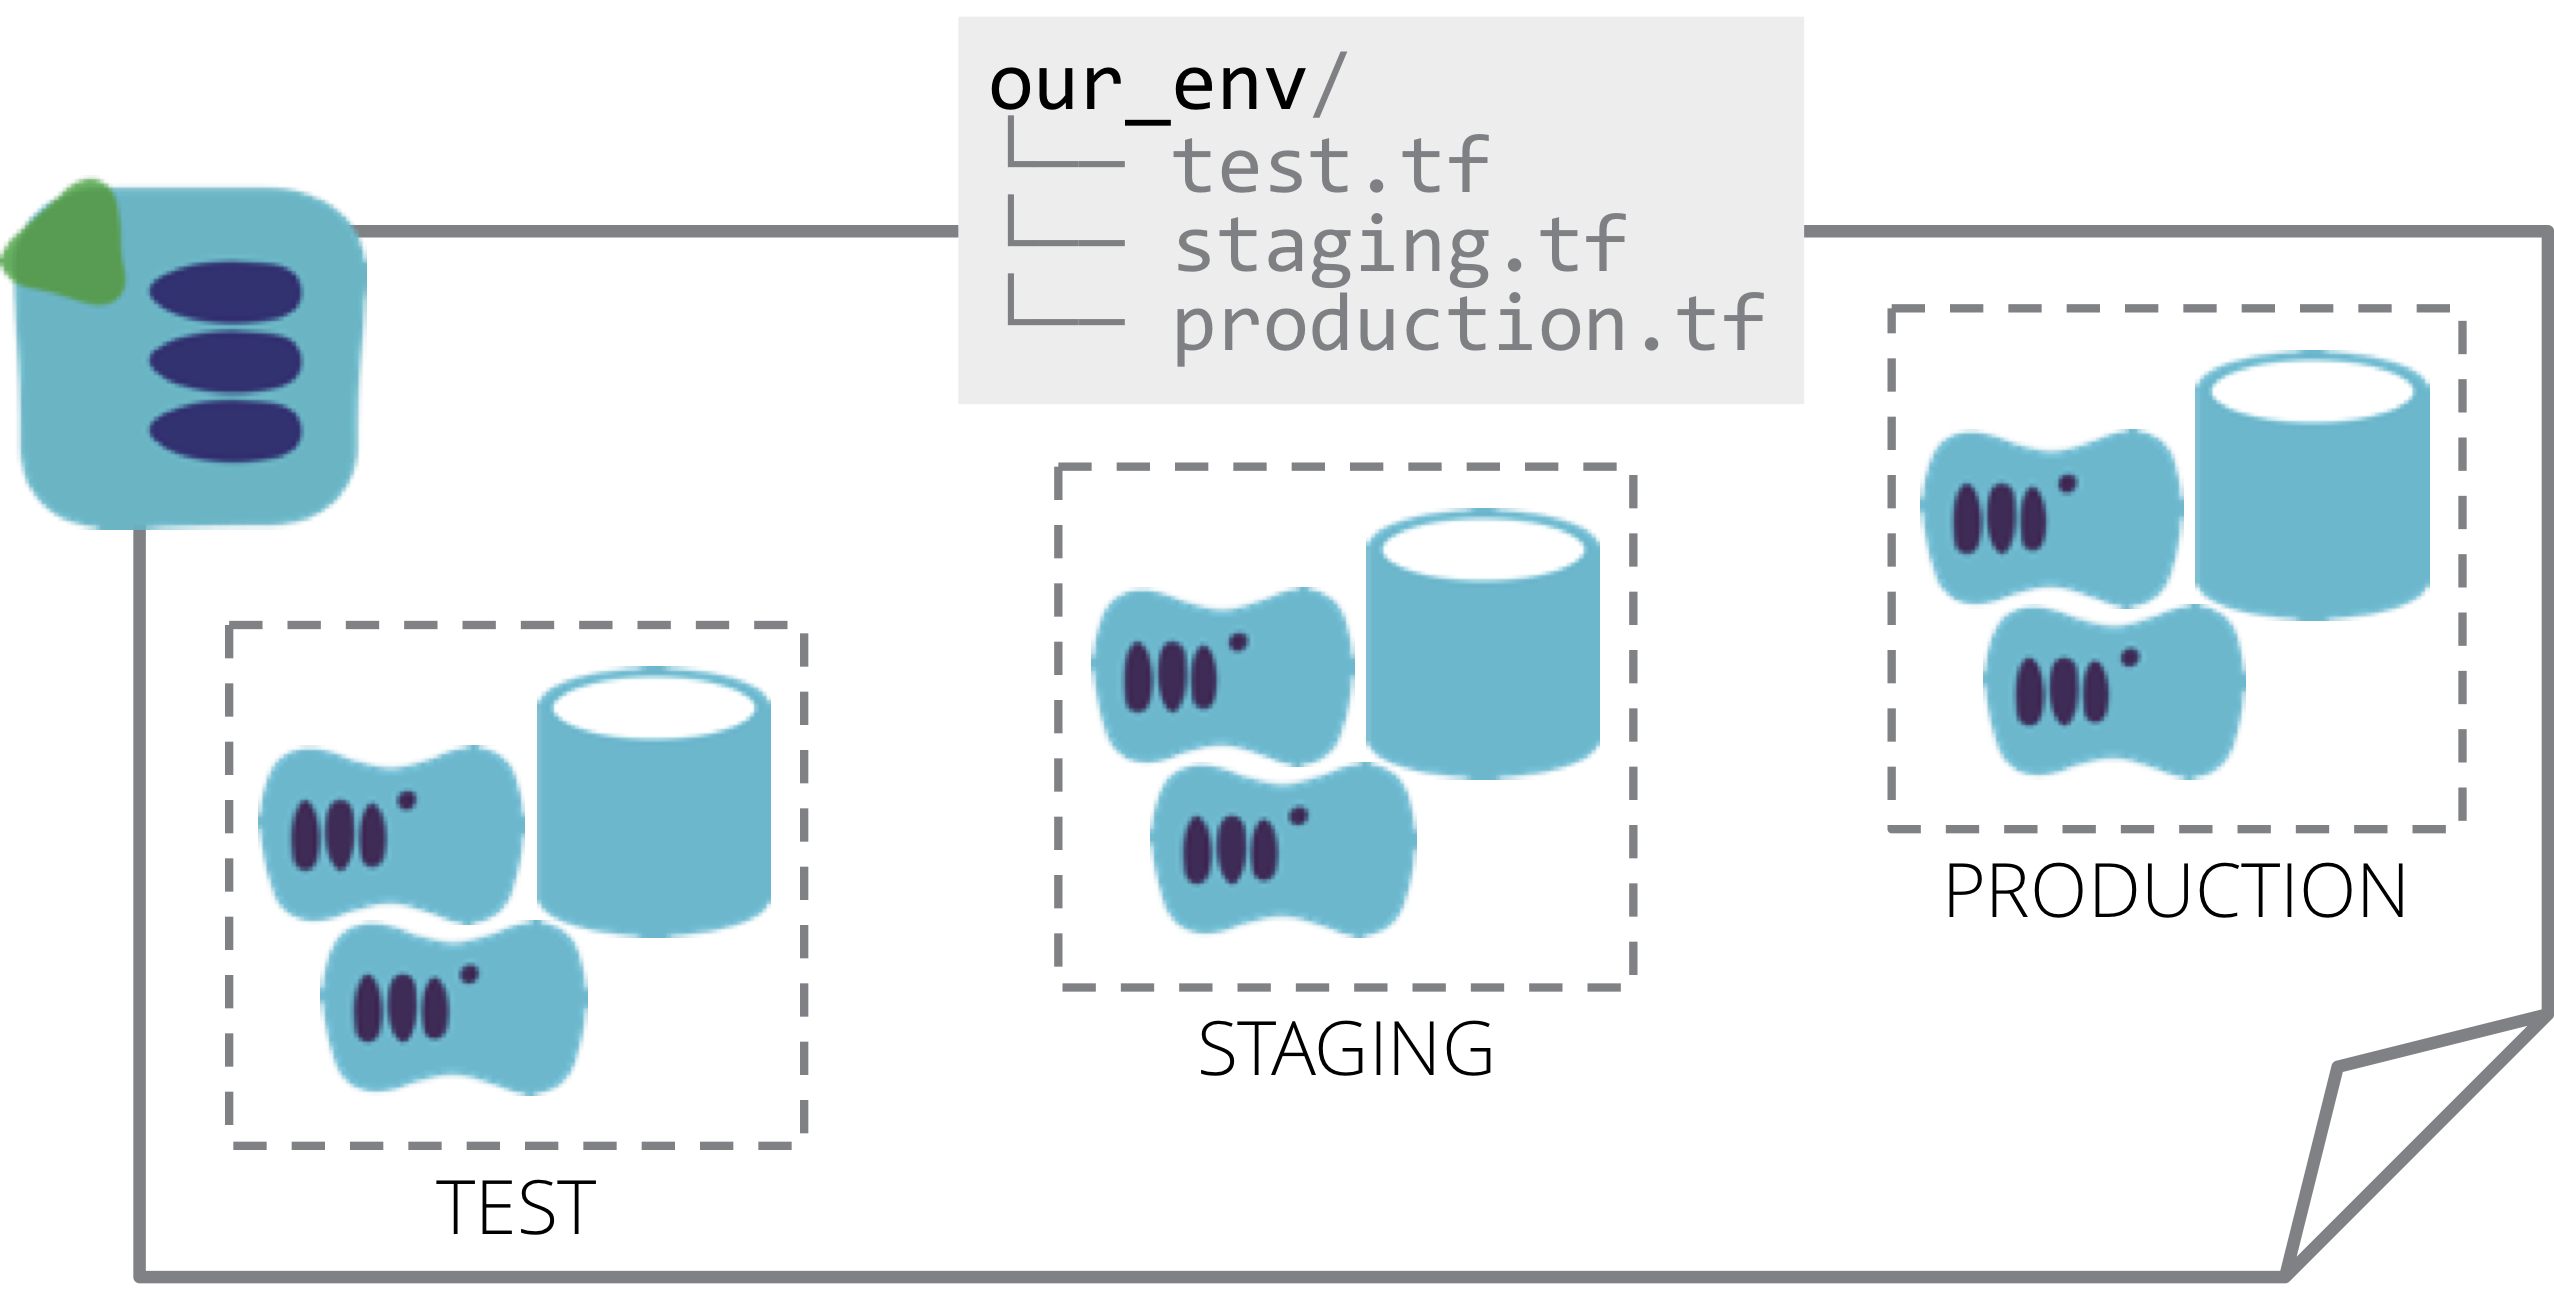
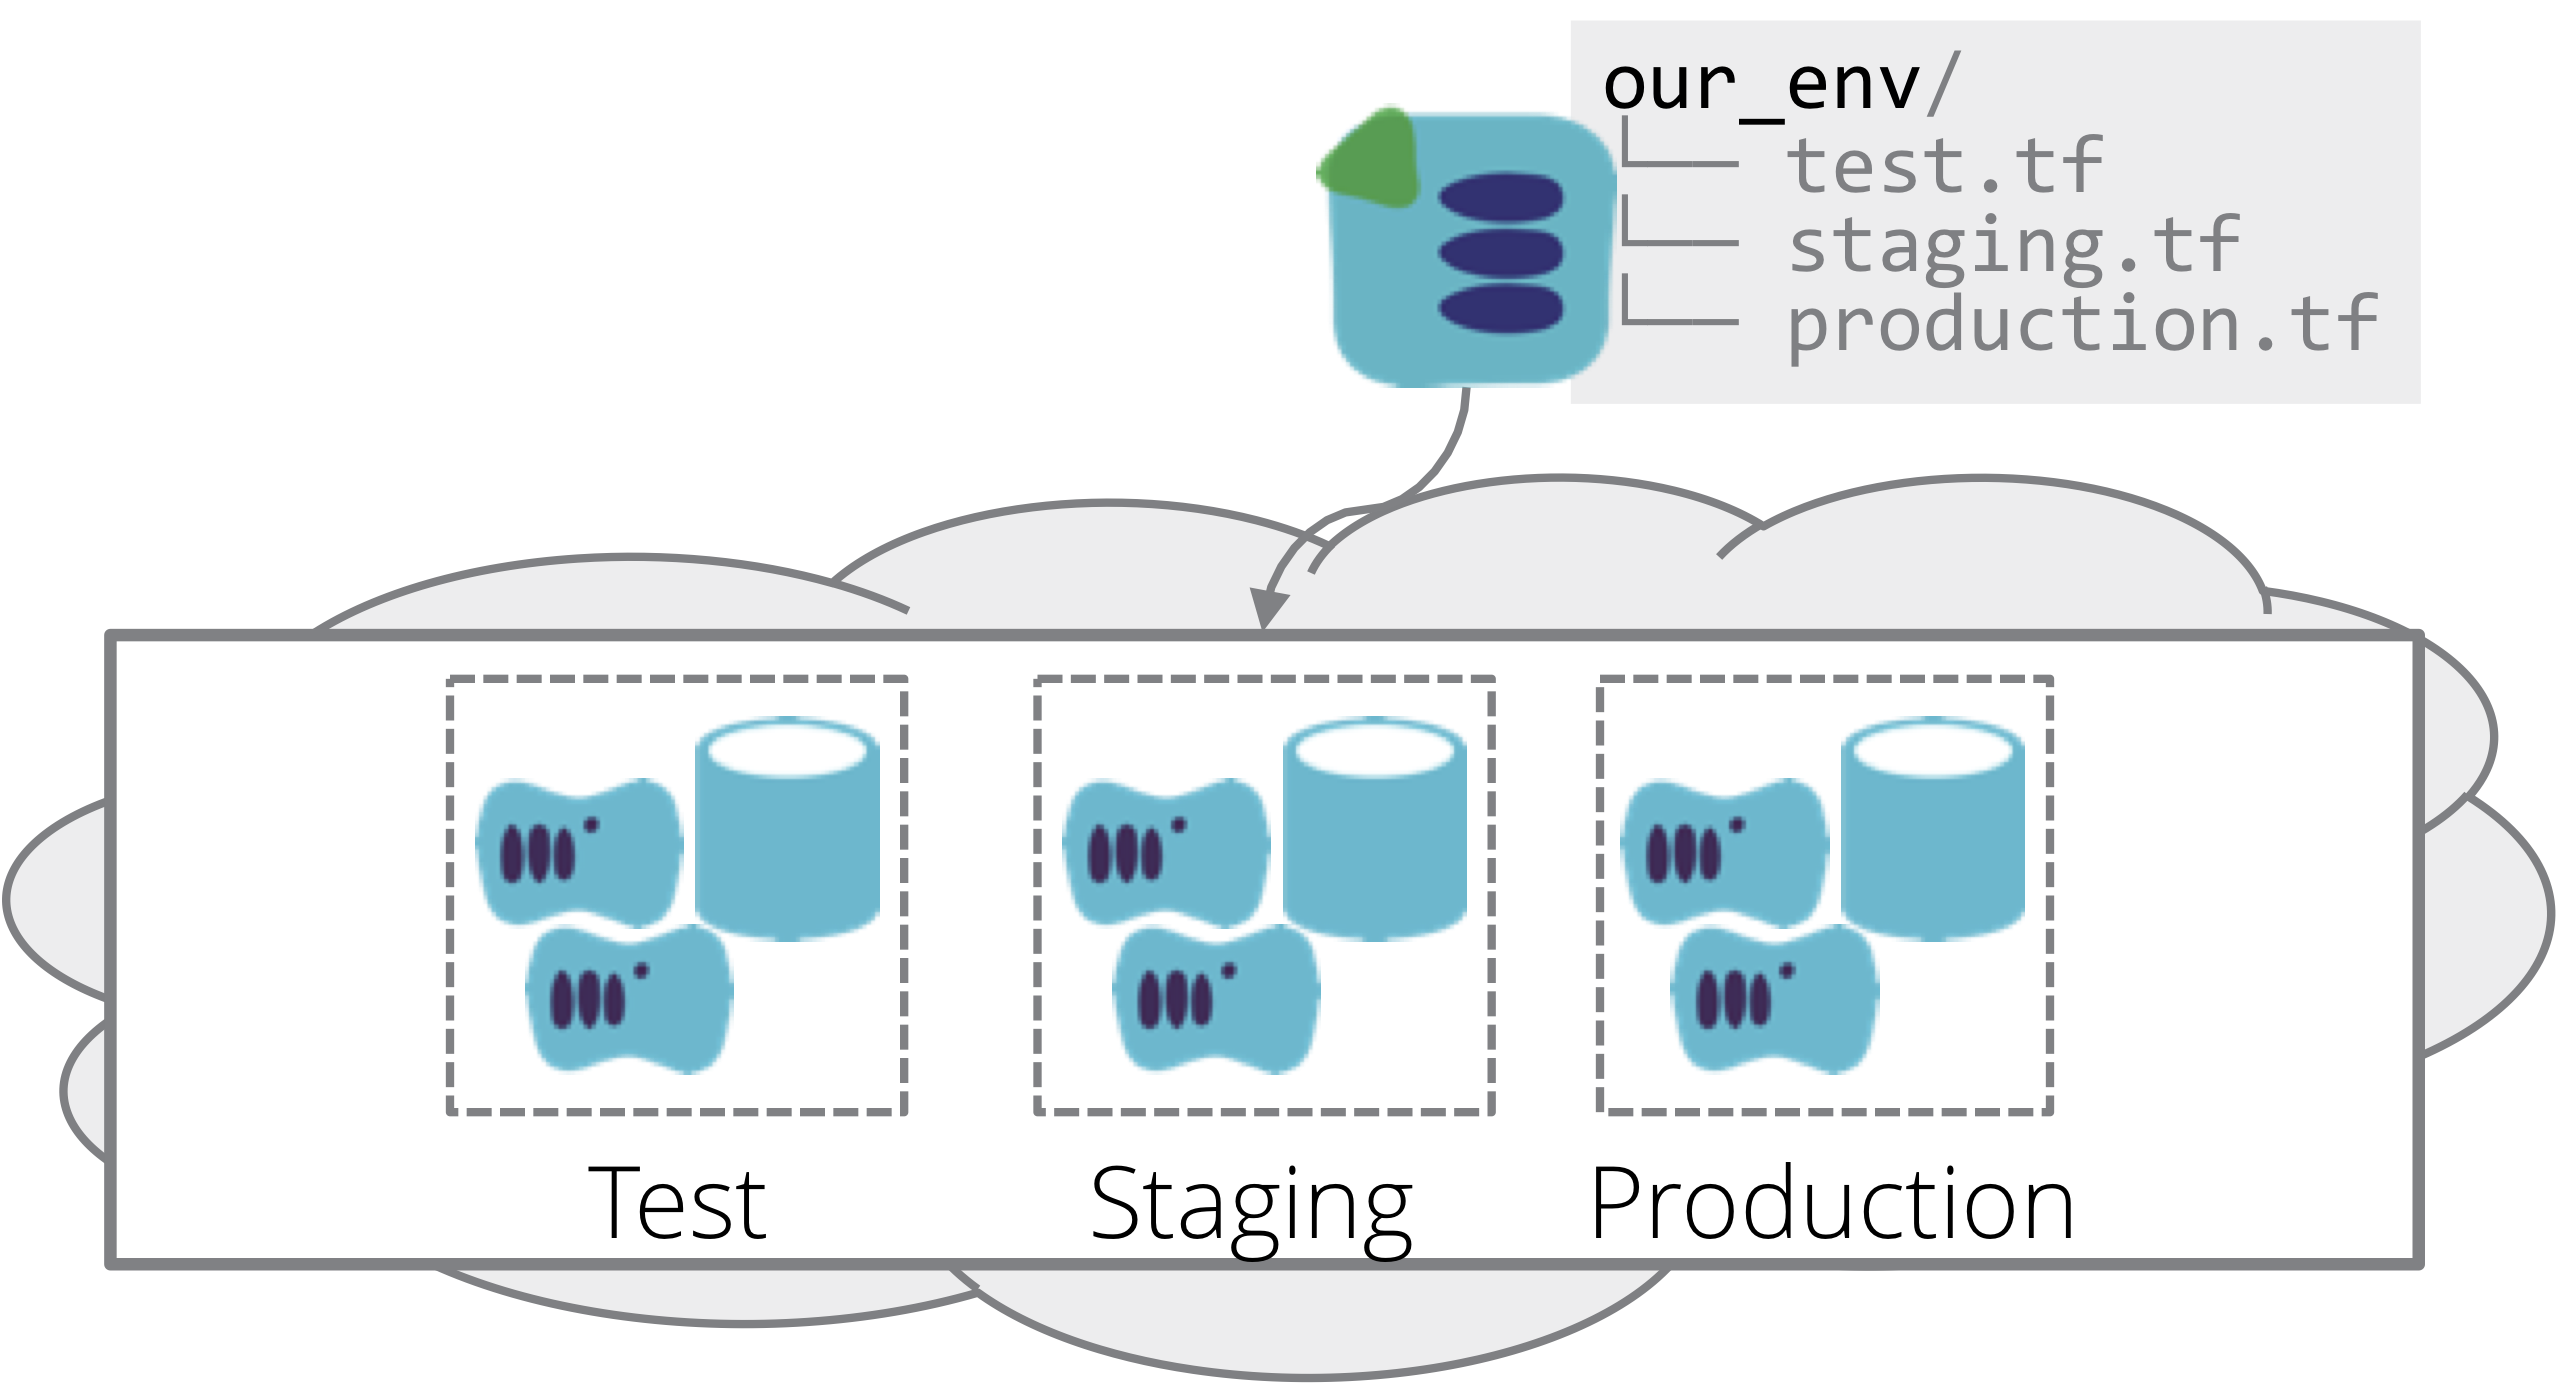
Purging definition as a term

diff --git a/_patterns/core-stack/many-headed-stack.md b/_patterns/core-stack/many-headed-stack.md
@@ -8,21 +8,24 @@ published: true
 status: review
 ---
 
-A Many-Headed Stack manages the infrastructure for multiple environments in a single stack.
+A Many-Headed Stack manages the infrastructure for multiple environments in a single stack project.
 
 For example, if there are three environments for testing and running an application, a single Terraform project (and single statefile) includes the code for all three of the environments.
 
 Many people new to an infrastructure stack tool start out by creating this type of structure, because it seems natural to simply add new environments into a project that already exists. But a bit of experience shows the drawbacks of the approach.
 
 
-![A many-headed stack manages the infrastructure for multiple environments in a single stack](images/many-headed-stack.png)
+<figure>
+  <img src="images/many-headed-stack.png" alt="A many-headed stack manages the infrastructure for multiple environments in a single stack project"/>
+  <figcaption>A many-headed stack manages the infrastructure for multiple environments in a single stack project.</figcaption>
+</figure>
 
 
-The problem with including multiple environments in a single stack is that when the tool is run to apply the definition to the deployed infrastructure, its scope is everything in the stack. So if you apply a change to the "test" environment in the example above, it's entirely possible that changes will be inadvertently made to "staging" or "production" environments. 
+The problem with including multiple environments in a single stack is that when the tool is run to apply the code to the deployed infrastructure, its scope is all environments in the stack. So if you apply a change to the "test" environment in the example above, it's entirely possible that changes will be inadvertently made to "staging" or "production" environments. 
 
-This can happen when the person applying the definition to change one environment doesn't realize that unfinished changes have been made to the code for another environment. Sometimes someone starts making a change, then is interrupted before applying it, and later forgets about it.
+This can happen when the person applying a change to the stack project with the intention of changing one environment doesn't realize that unfinished changes have been made to the code for another environment. Sometimes someone starts making a change, then is interrupted before applying it, and later forgets about it.
 
-In other cases, there are dependencies across elements in the stack definition, especially where code or variables are shared across environments. So a change that we think should only affect one environment actually trigger changes to another. This illustrates another issue with this antipattern, it's harder to enforce decoupling between pieces of code within a single stack definition.
+In other cases, there are dependencies across elements in the stack project, especially where code or variables are shared across environments. So a change that we think should only affect one environment actually trigger changes to another. This illustrates another issue with this antipattern, it's harder to enforce decoupling between pieces of code within a single stack project.
 
 Certain operational problems can also affect multiple environments managed as a single stack. Corruption to data structures (e.g. in Terraform statefile, or in CloudFormation stack data) impacts all of the environments in the stack.
 
@@ -31,6 +34,6 @@ The term "blast radius" is used to describe the potential scope for damage of a 
 
 ## Alternative patterns
 
-Therefore, it's a good idea to limit the blast radius, and reduce risk of change, by splitting environments into separate stacks. One obvious way to do this is the [singleton stack](singleton-stack.html), where each environment has its own separate stack definition, although this is considered an anti-pattern.
+Therefore, it's a good idea to limit the blast radius, and reduce risk of change, by splitting environments into separate stacks. One obvious way to do this is the [singleton stack](singleton-stack.html), where each environment has its own separate stack project, although this is considered an anti-pattern.
 
-A better approach is the [template stack](template-stack.html) pattern, where a single definition is used to define an environment, and then applied to manage a separate stack instance for each environment. Although this involves using a single definition, the advantage is that the definition is only applied to one environment instance at a time. So the blast radius for changes are limited to that one environment.
+A better approach is the [template stack](template-stack.html) pattern, where a single project is used to define the generic structure for an environment, and is then applied to create and manage a separate stack instance for each environment. Although this involves using a single project, the advantage is that the project is only applied to one environment instance at a time. So the blast radius for changes are limited to that one environment.
